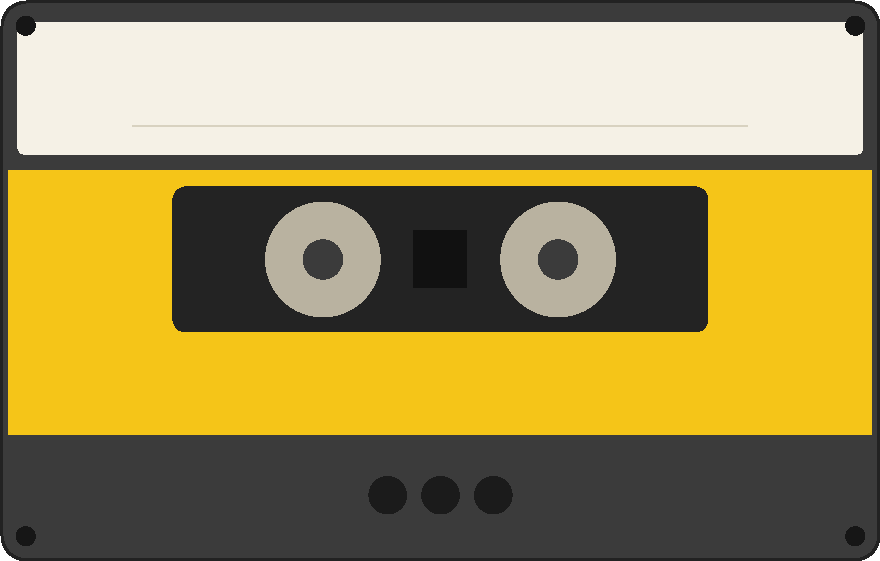
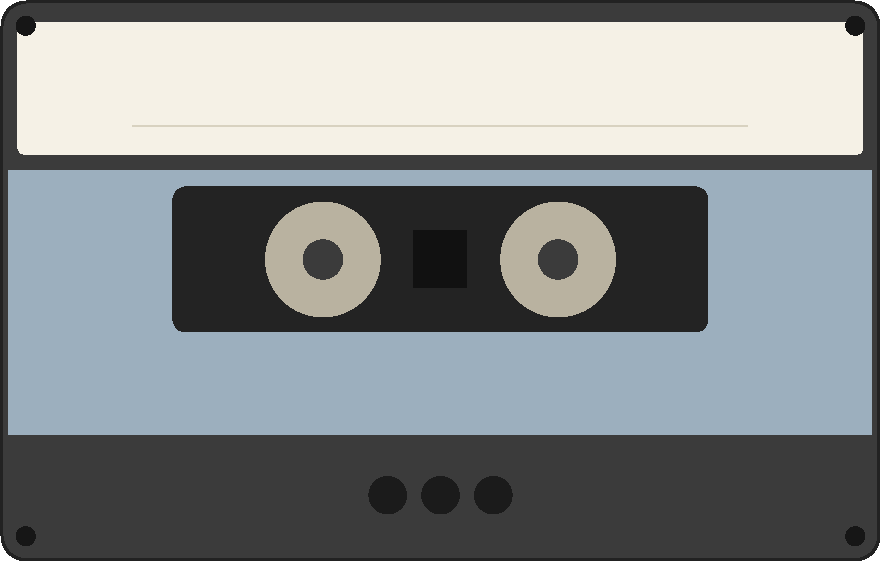
cassetteカードのスクロール時の縮小・フェード表現を調整
焦点付近では等倍・不透明を維持するプラトー区間を追加し、端に近づくにつれて縮小とフェードを行うように変更

diff --git a/app/(tabs)/connections.tsx b/app/(tabs)/connections.tsx
@@ -39,10 +39,14 @@ function isUserProfile(profile: UserProfile | null): profile is UserProfile {
 
 // cassette 画像比率(880x561)から算出したカード1件分の高さの目安
 const CASSETTE_ASPECT_RATIO = 880 / 561;
-const CASSETTE_MARGIN_BOTTOM = 18;
+const CASSETTE_MARGIN_BOTTOM = 1;
 const PAGE_CONTENT_HORIZONTAL_PADDING = 24;
 const PAGE_CONTENT_BASE_BOTTOM_PADDING = 120;
-const CASSETTE_MIN_SCALE = 0.85;
+const CASSETTE_MIN_SCALE = 0.7;
+const CASSETTE_MIN_OPACITY = 0.4;
+// 焦点からこの割合(0〜1)までは等倍/不透明度を保ち、そこから先で端に向けて縮小・かすませる
+const CASSETTE_SCALE_PLATEAU_RATIO = 0.3;
+const CASSETTE_OPACITY_PLATEAU_RATIO = 0.6;
 
 function VoiceOptionsPanel({ options }: { options: readonly string[] }) {
   const anim = useRef(new Animated.Value(0)).current;
@@ -130,18 +134,40 @@ export default function ConnectionsScreen() {
       personalViewportHeight - cassetteItemHeight - personalContentTopPadding
     );
 
-  function getCassetteScale(index: number) {
+  function getCassetteFocusInputRange(index: number) {
     const cardCenter =
       personalContentTopPadding + index * cassetteItemHeight + cassetteHeight / 2;
     const focusScrollY = cardCenter - screenCenterInViewport;
 
+    return [
+      focusScrollY - cassetteItemHeight,
+      focusScrollY,
+      focusScrollY + cassetteItemHeight,
+    ];
+  }
+
+  function getCassettePlateauInputRange(index: number, plateauRatio: number) {
+    const [rangeStart, focusScrollY, rangeEnd] = getCassetteFocusInputRange(index);
+    const plateauBefore =
+      focusScrollY - (focusScrollY - rangeStart) * plateauRatio;
+    const plateauAfter =
+      focusScrollY + (rangeEnd - focusScrollY) * plateauRatio;
+
+    return [rangeStart, plateauBefore, plateauAfter, rangeEnd];
+  }
+
+  function getCassetteScale(index: number) {
     return personalScrollY.interpolate({
-      inputRange: [
-        focusScrollY - cassetteItemHeight,
-        focusScrollY,
-        focusScrollY + cassetteItemHeight,
-      ],
-      outputRange: [CASSETTE_MIN_SCALE, 1, CASSETTE_MIN_SCALE],
+      inputRange: getCassettePlateauInputRange(index, CASSETTE_SCALE_PLATEAU_RATIO),
+      outputRange: [CASSETTE_MIN_SCALE, 1, 1, CASSETTE_MIN_SCALE],
+      extrapolate: 'clamp',
+    });
+  }
+
+  function getCassetteOpacity(index: number) {
+    return personalScrollY.interpolate({
+      inputRange: getCassettePlateauInputRange(index, CASSETTE_OPACITY_PLATEAU_RATIO),
+      outputRange: [CASSETTE_MIN_OPACITY, 1, 1, CASSETTE_MIN_OPACITY],
       extrapolate: 'clamp',
     });
   }
@@ -446,6 +472,7 @@ export default function ConnectionsScreen() {
                     style={[
                       styles.cassette,
                       {
+                        opacity: getCassetteOpacity(index),
                         transform: [
                           { rotate: index % 2 === 0 ? '-0.25deg' : '0.25deg' },
                           { scale: getCassetteScale(index) },
@@ -715,7 +742,7 @@ const styles = StyleSheet.create({
   },
 
   cassetteTouchable: {
-    marginBottom: 18,
+    marginBottom: CASSETTE_MARGIN_BOTTOM,
   },
 
   cassette: {
